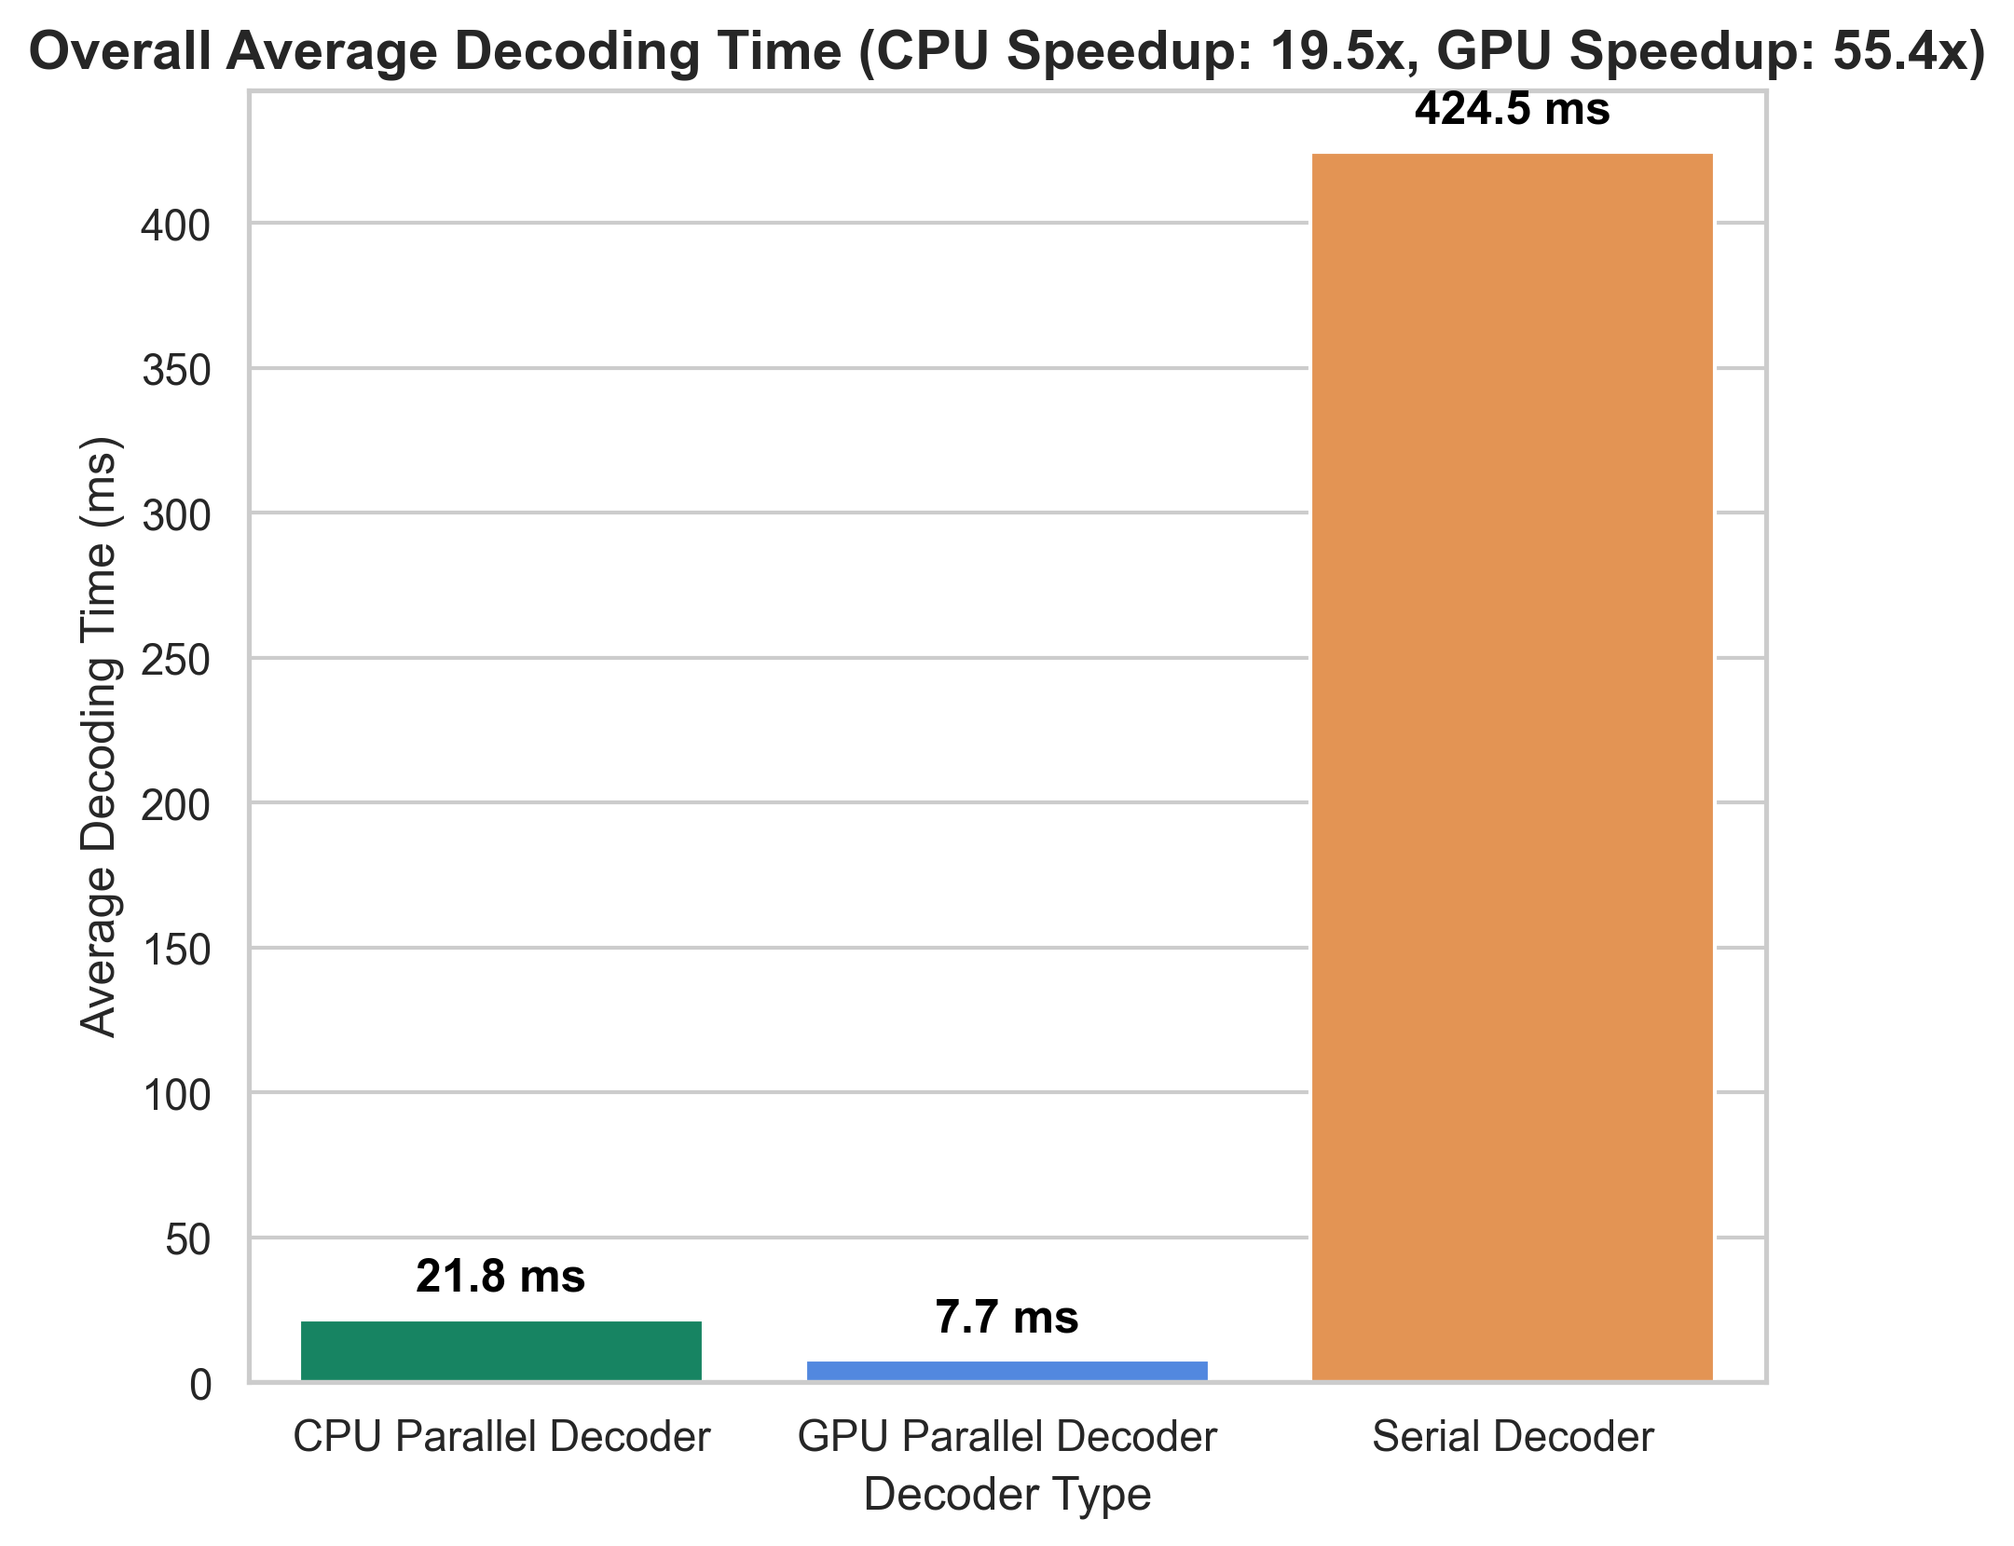
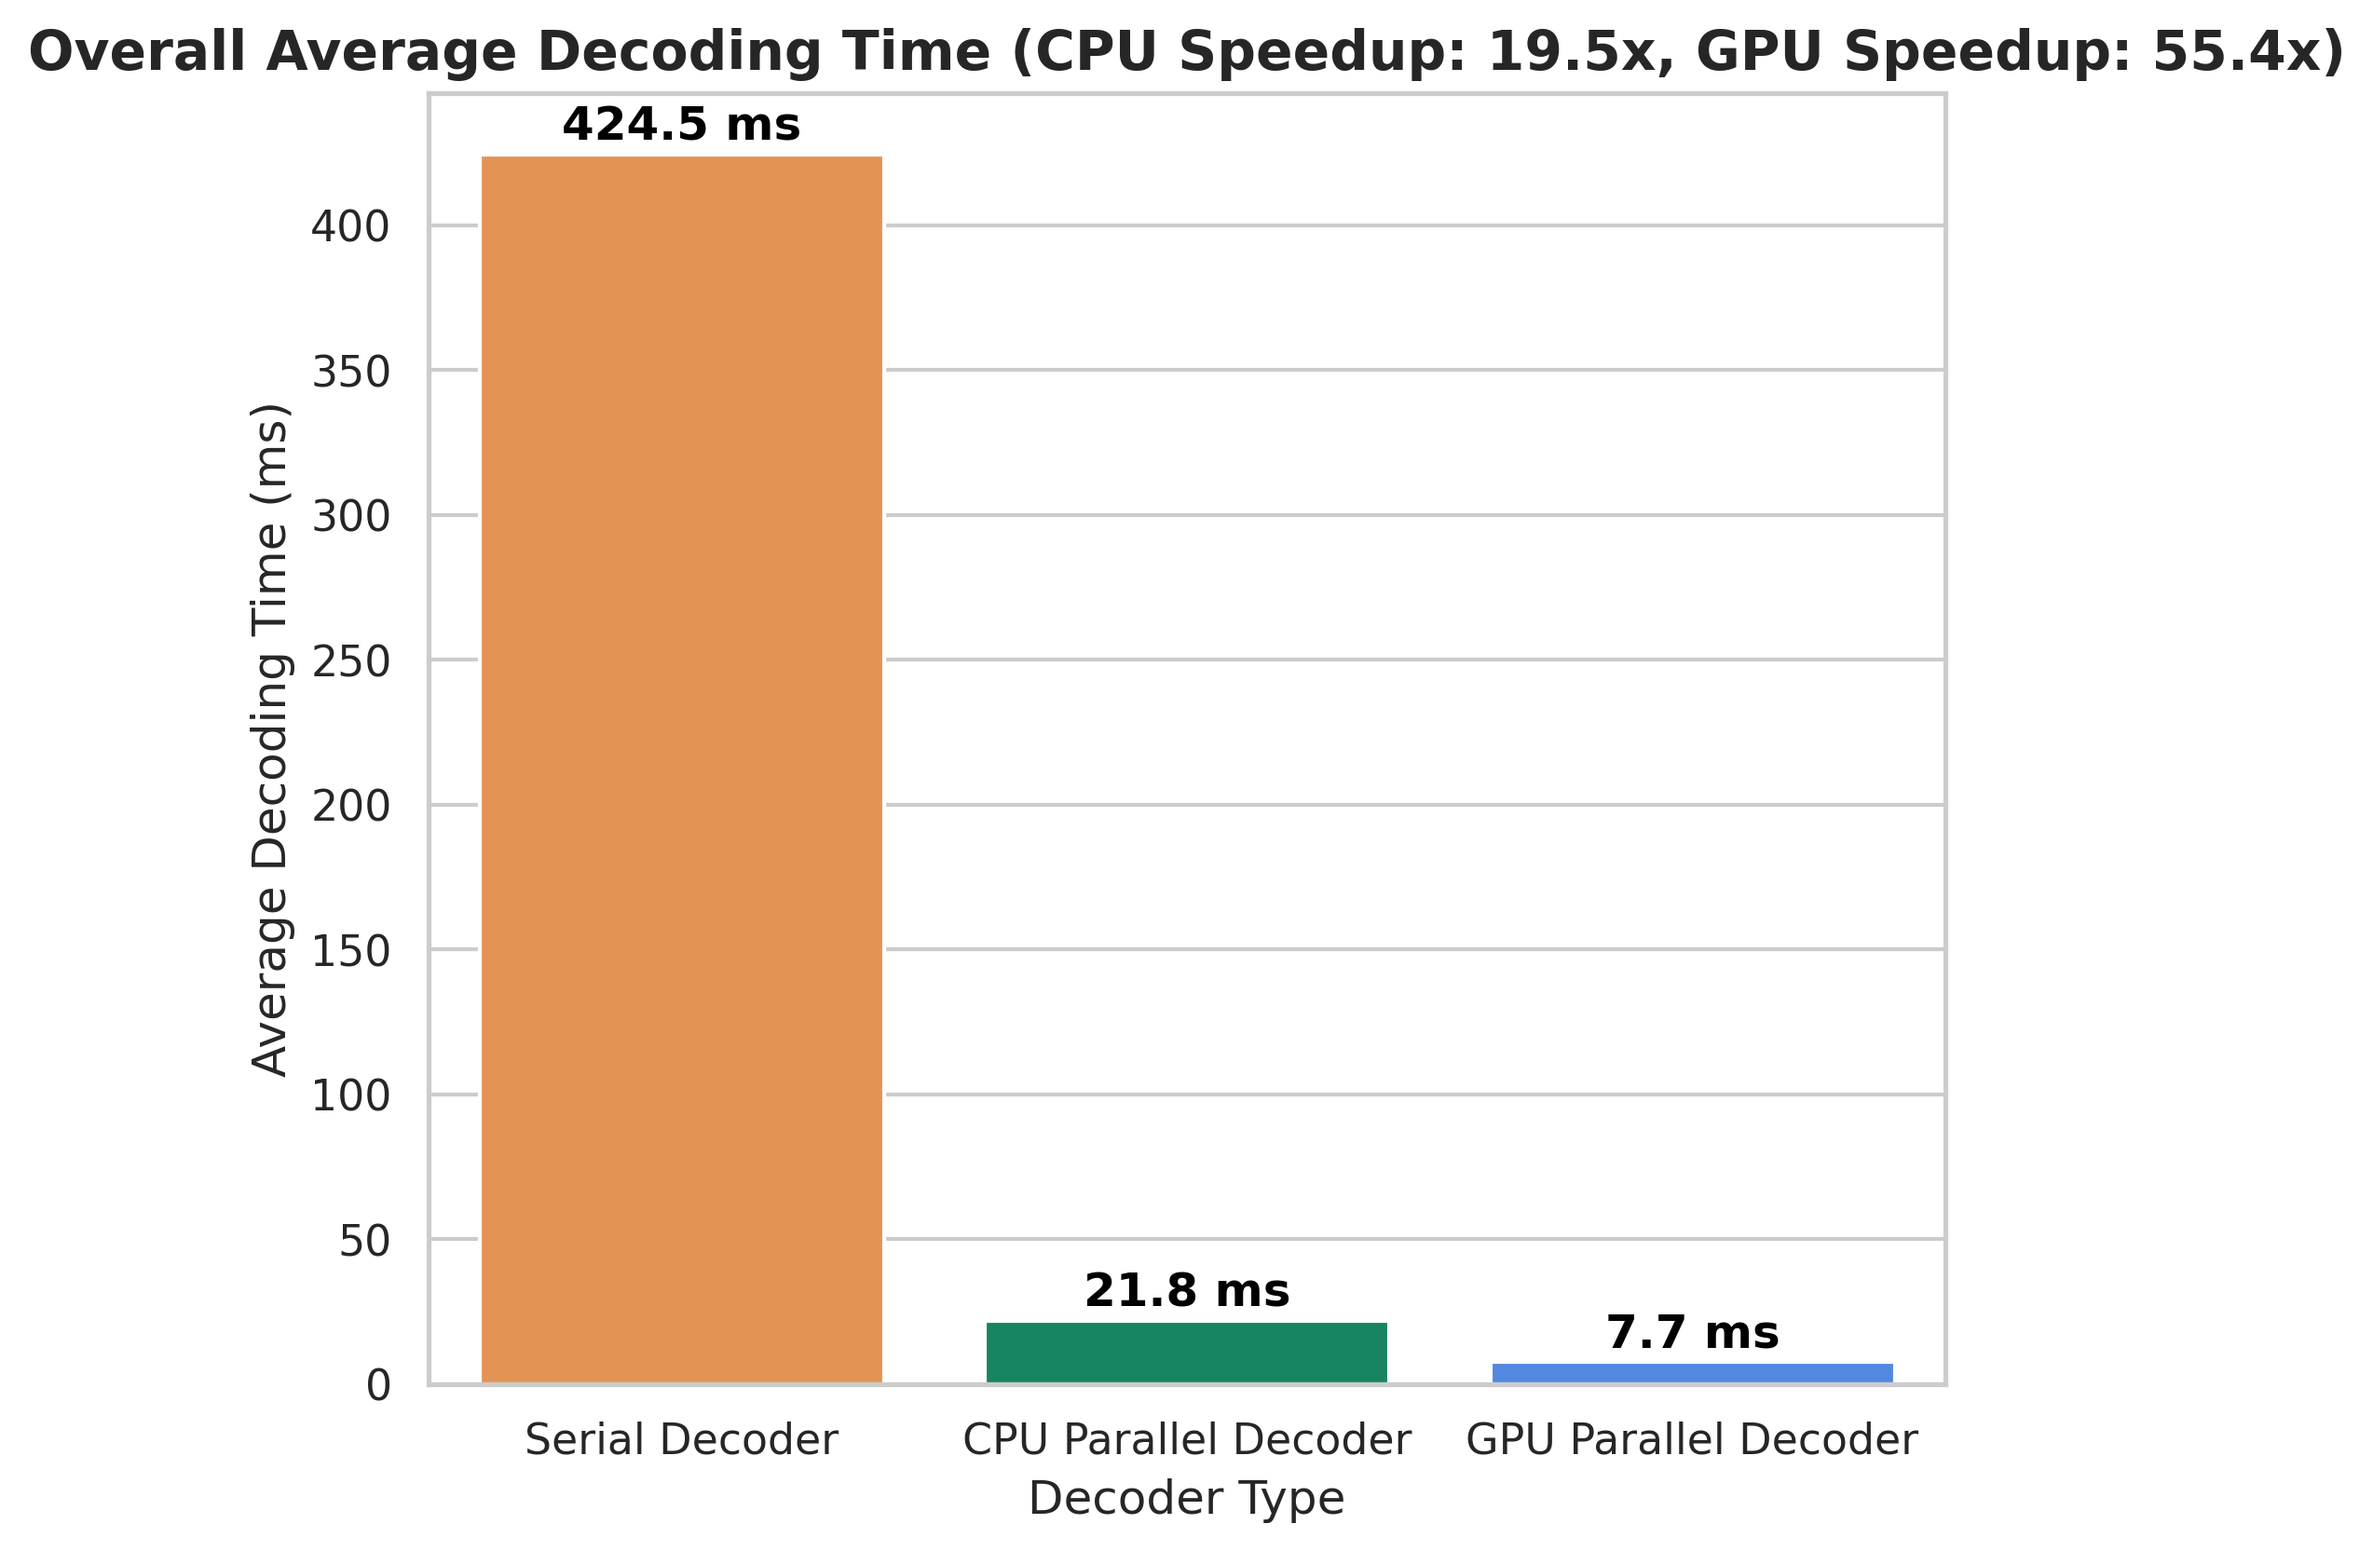
reorder overall average time plot

diff --git a/eval/visualize.py b/eval/visualize.py
@@ -335,12 +335,14 @@ def generate_plots(df: pd.DataFrame):
 
     # Rename for clearer legend in the plot
     df_avg_time['Decoder'] = df_avg_time['Decoder'].str.replace('Time_ms', ' Decoder')
-
+    decoder_order = ['Serial Decoder', 'CPU Parallel Decoder', 'GPU Parallel Decoder']
+    
     sns.barplot(
         x='Decoder', 
         y='Time_ms', 
         data=df_avg_time, 
         palette={'Serial Decoder': '#fb923c', 'CPU Parallel Decoder': '#059669', 'GPU Parallel Decoder': '#3b82f6'},
+        order=decoder_order,
         ax=ax4
     )
 
@@ -352,11 +354,16 @@ def generate_plots(df: pd.DataFrame):
     ax4.set_ylabel('Average Decoding Time (ms)', fontsize=12)
     
     # Add labels on top of the bars
-    for index, row in df_avg_time.iterrows():
+    for i, p in enumerate(ax4.patches):
+        decoder_name = decoder_order[i] 
+        
+        # Get the 'Time_ms' value for this specific decoder
+        time_value = df_avg_time.loc[df_avg_time['Decoder'] == decoder_name, 'Time_ms'].iloc[0]
+
         ax4.text(
-            index, 
-            row.Time_ms + 10, 
-            f'{row.Time_ms:.1f} ms', 
+            p.get_x() + p.get_width() / 2.,
+            p.get_height() + 5,
+            f'{time_value:.1f} ms',
             color='black', 
             ha='center', 
             fontweight='bold'
